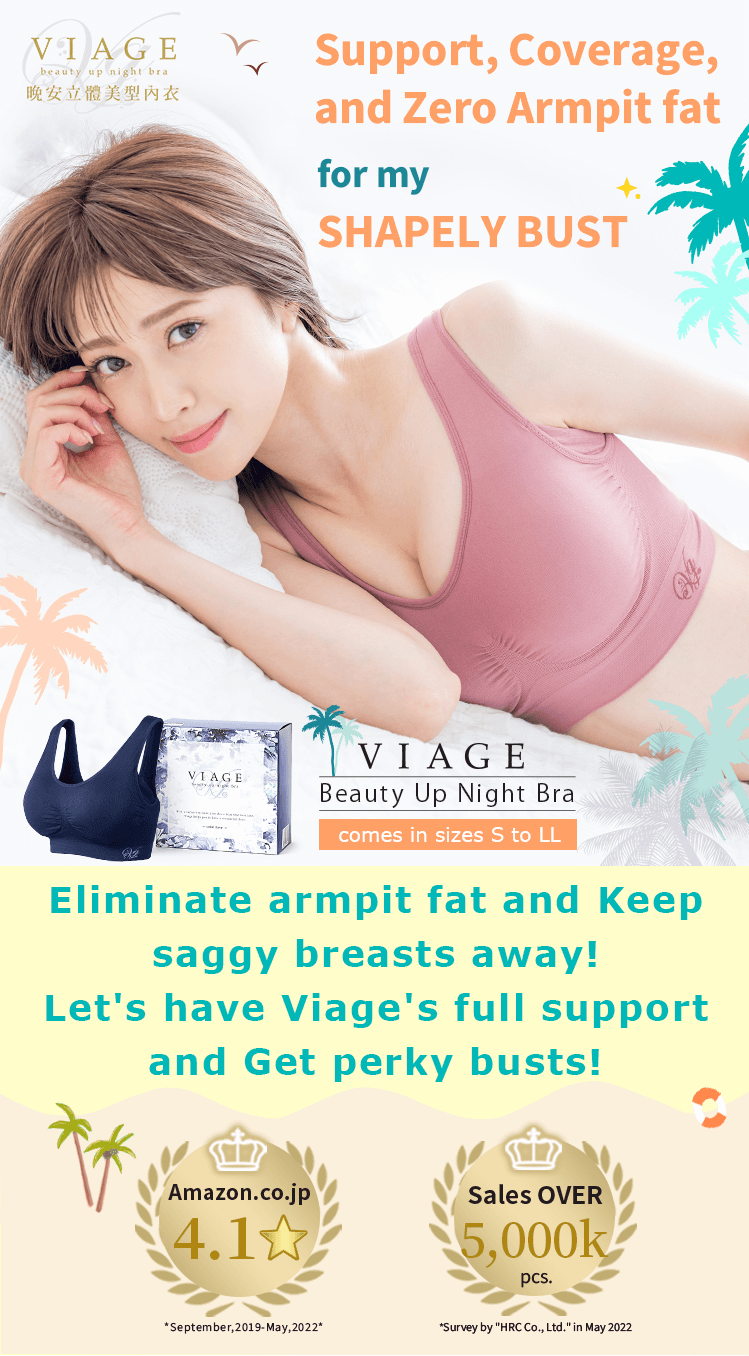
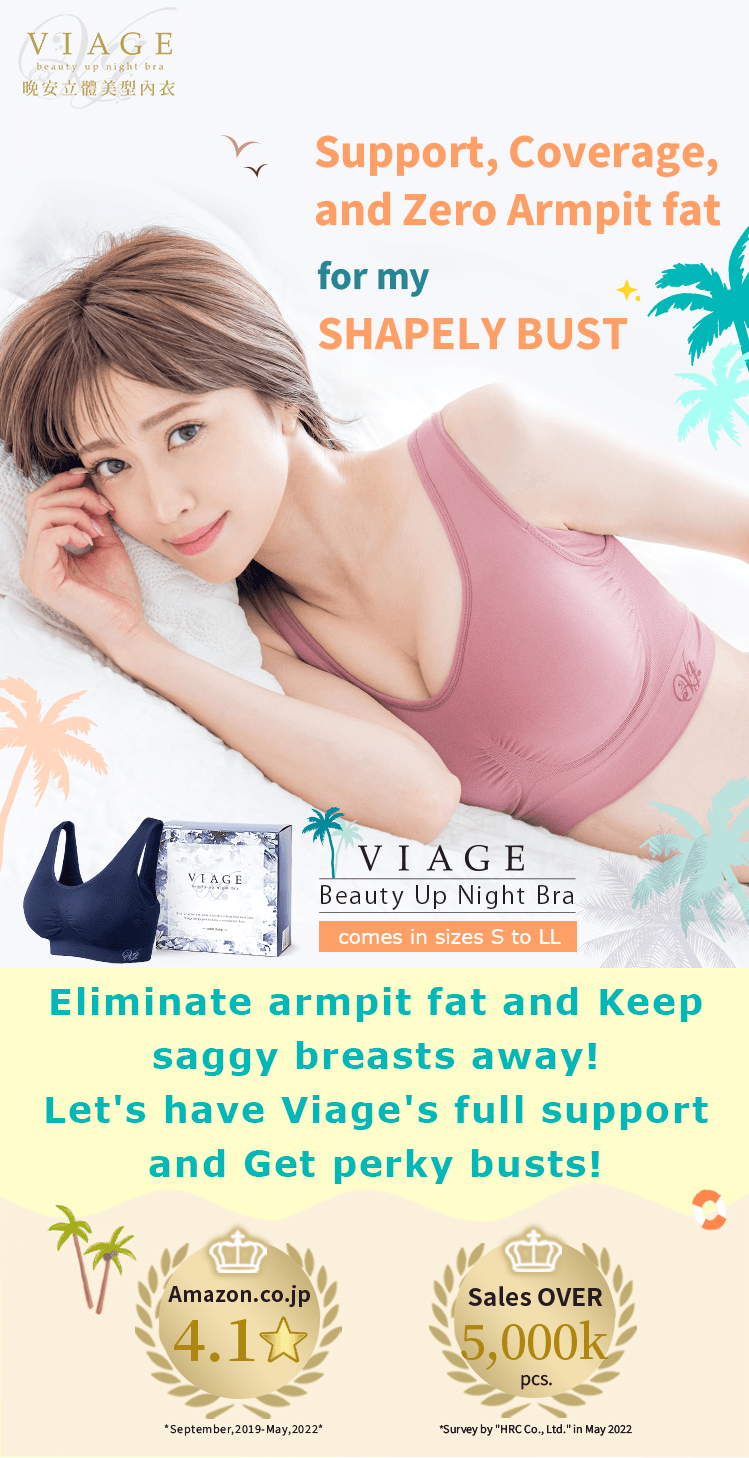
20220708_chinese btn position

diff --git a/css/style.css b/css/style.css
@@ -37,8 +37,8 @@ html,body {
     position: absolute;
     width: 28%;
     display: block;
-    top: 20%;
-    right: 1%;
+    top: 1.5%;
+    right: 3%;
 }
 
 
